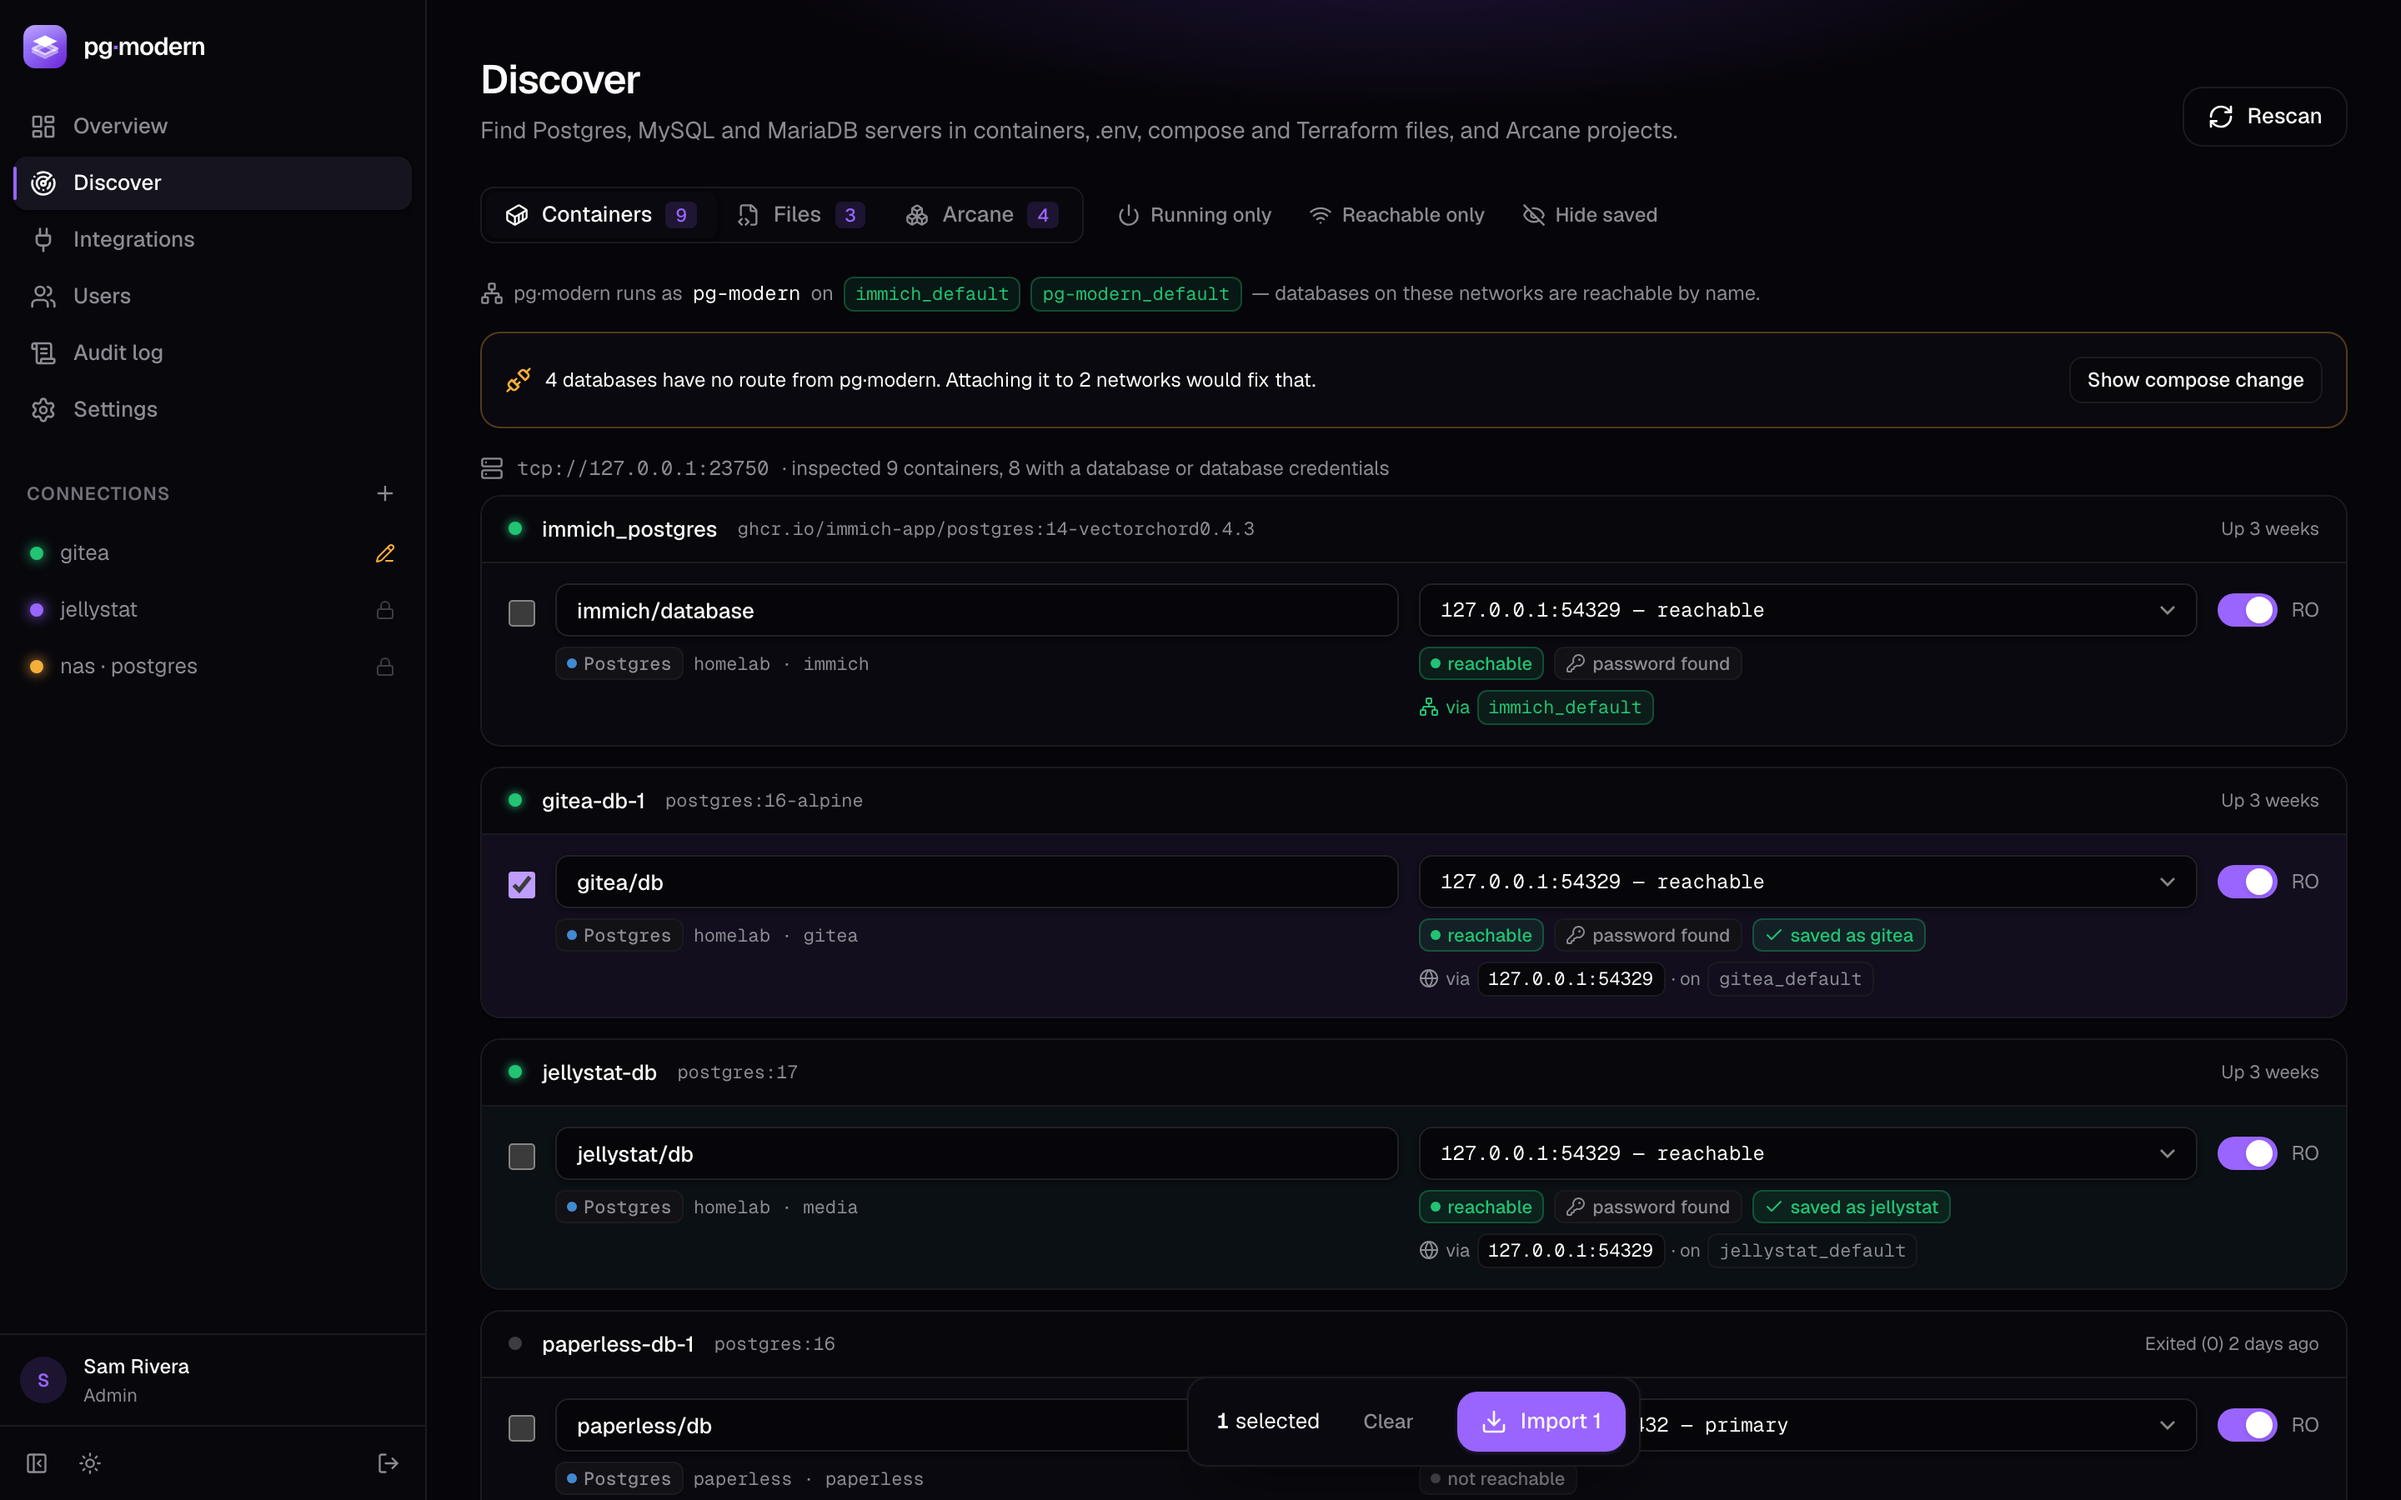
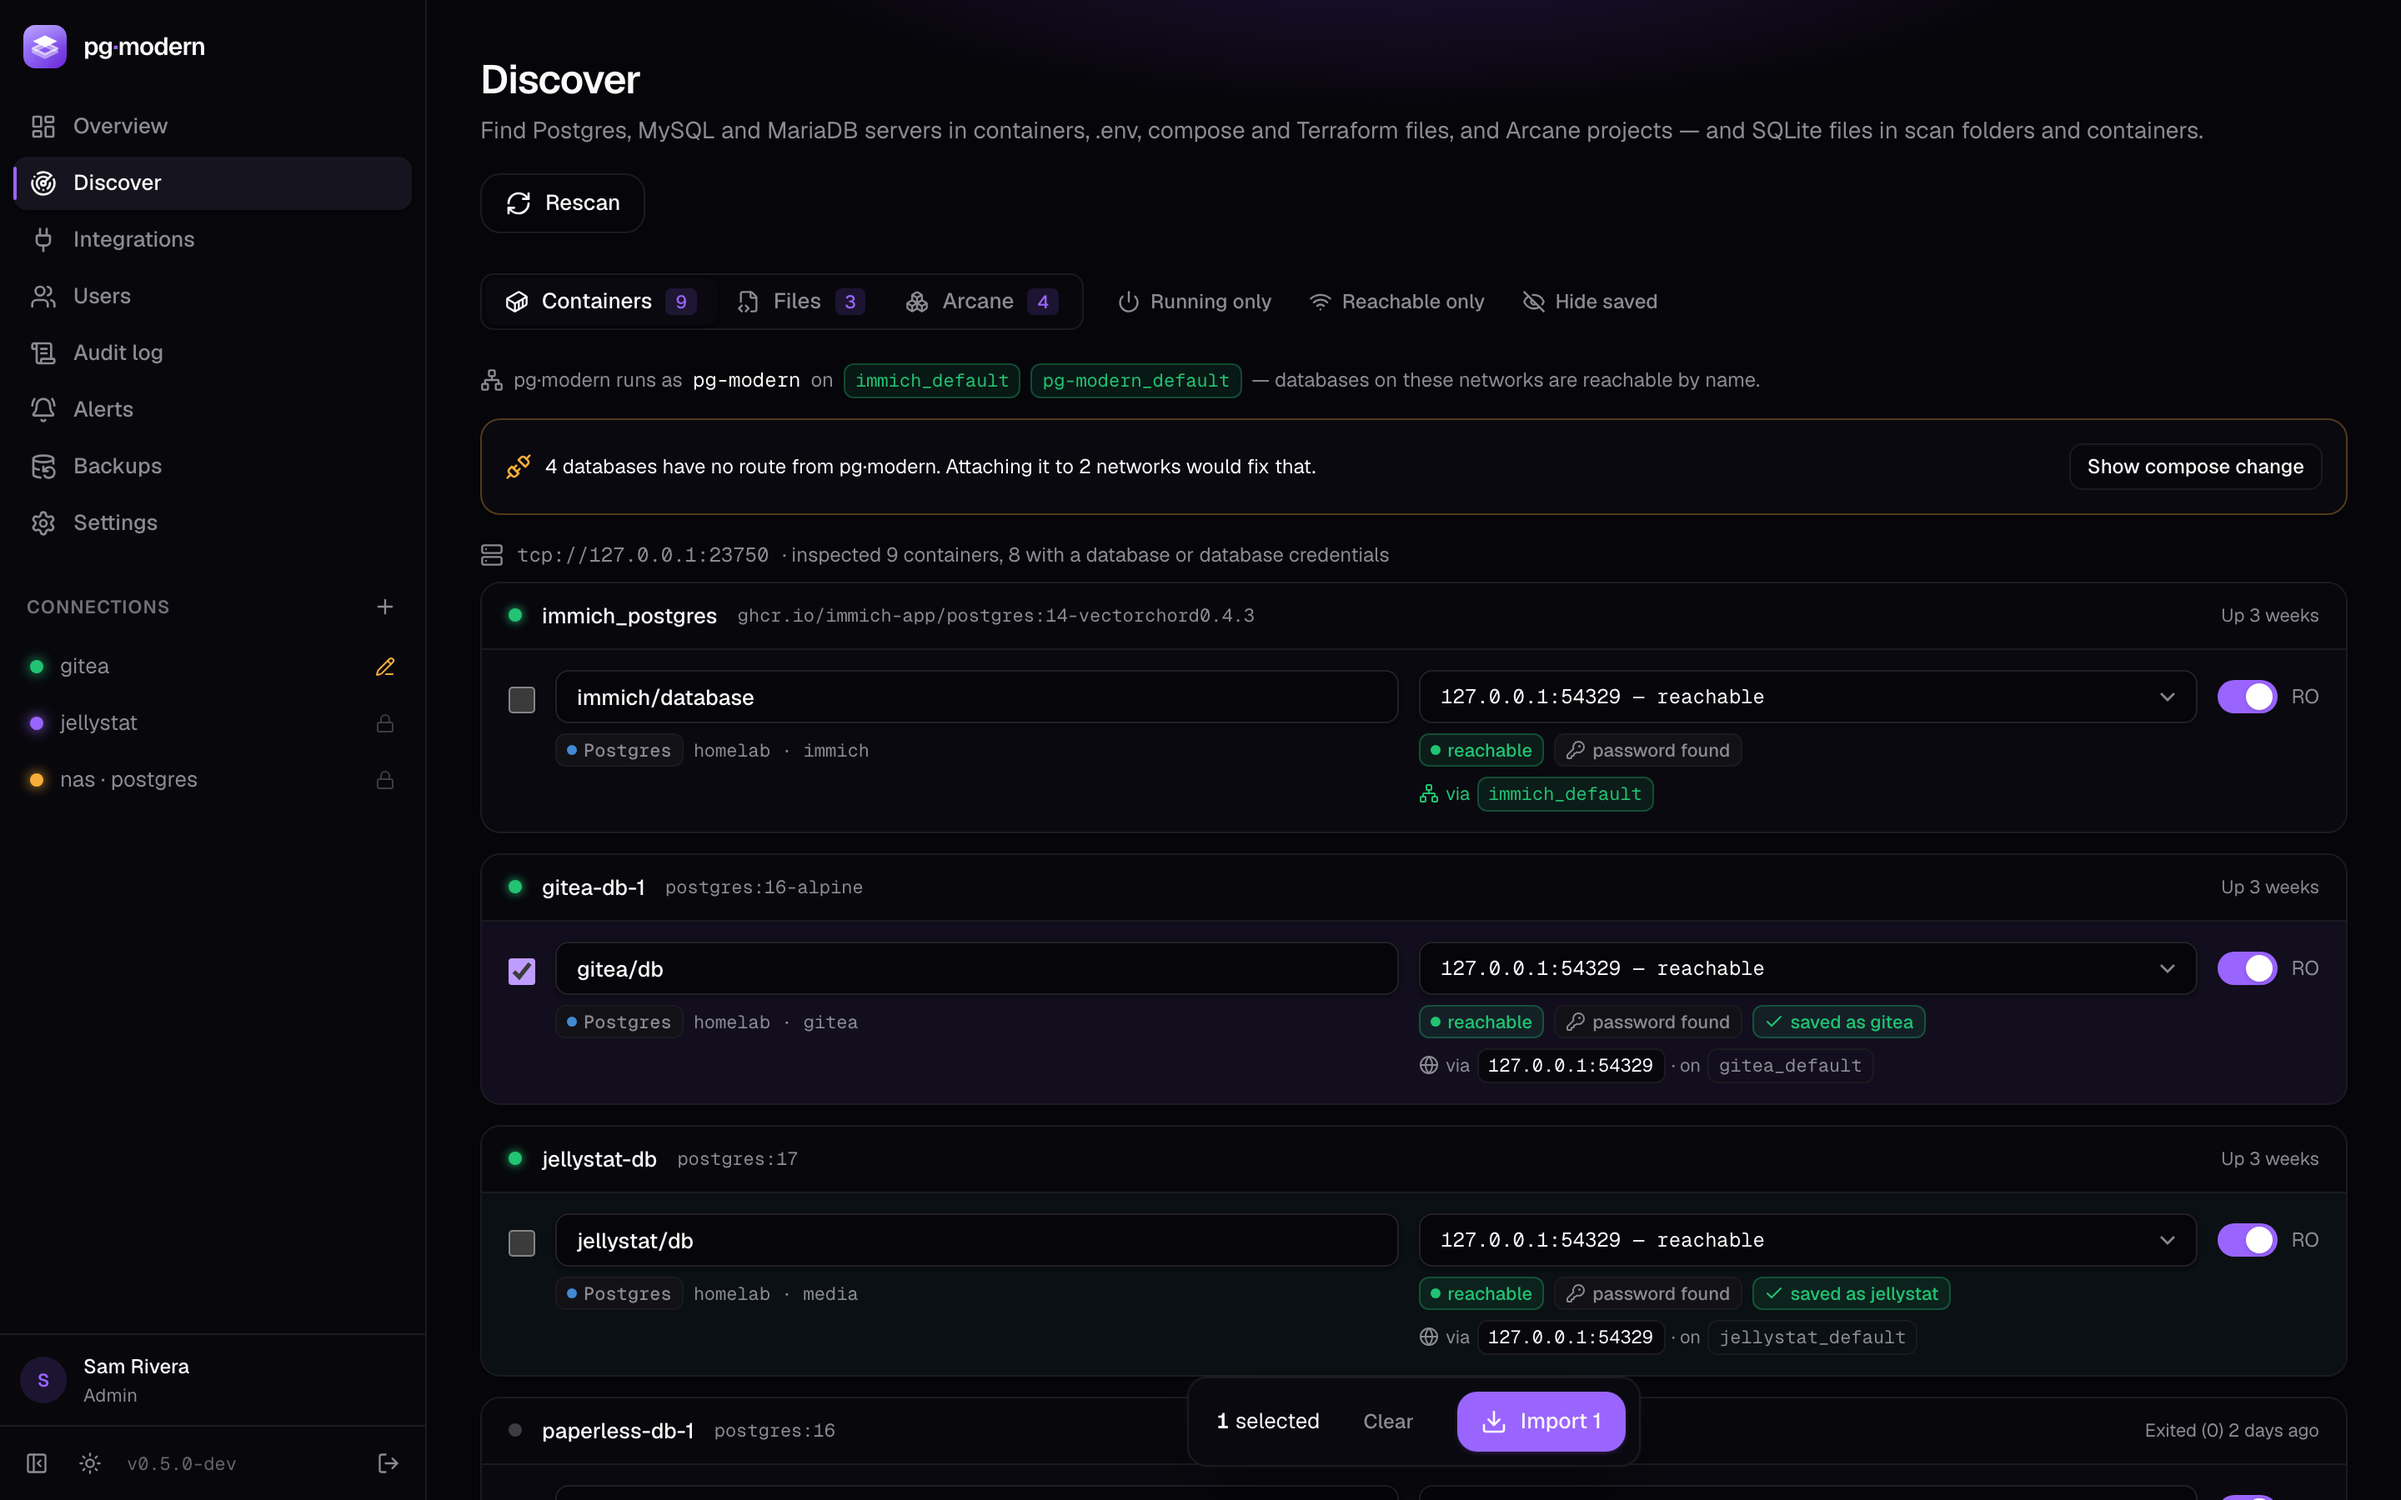
Show the release version in the sidebar and tag images with it
Main builds are versioned <major>.<minor>.<run number> from package.json
instead of a commit-sha tag; v* tags keep their semver tags.

Claude-Session: https://claude.ai/code/session_01VYYm8sXoCeympBHRdWuxtT

diff --git a/vite.config.ts b/vite.config.ts
@@ -1,9 +1,14 @@
 import adapter from '@sveltejs/adapter-node';
 import { sveltekit } from '@sveltejs/kit/vite';
 import tailwindcss from '@tailwindcss/vite';
+import { readFileSync } from 'node:fs';
 import { defineConfig } from 'vite';
 
+const pkg = JSON.parse(readFileSync(new URL('./package.json', import.meta.url), 'utf8')) as { version: string };
+
 export default defineConfig({
+	// The image build passes the release version (see Dockerfile); local builds say -dev.
+	define: { __APP_VERSION__: JSON.stringify(process.env.PGM_VERSION || `${pkg.version}-dev`) },
 	plugins: [
 		tailwindcss(),
 		sveltekit({

diff --git a/src/routes/+layout.svelte b/src/routes/+layout.svelte
@@ -224,6 +224,9 @@
 				>
 					{#if theme.value === 'dark'}<Sun />{:else}<Moon />{/if}
 				</button>
+				{#if !collapsed}
+					<span class="ml-1 truncate font-mono text-[11px] text-muted-foreground/70" title="pg·modern version">v{data.version}</span>
+				{/if}
 				{#if data.auth === 'authenticated'}
 					<button class="btn btn-ghost btn-icon btn-sm {collapsed ? '' : 'ml-auto'}" title="Sign out" onclick={logout}><LogOut /></button>
 				{/if}

diff --git a/src/app.d.ts b/src/app.d.ts
@@ -1,6 +1,8 @@
 // See https://svelte.dev/docs/kit/types#app.d.ts
 // for information about these interfaces
 declare global {
+	/** The release version, e.g. 0.5.42 (set at build time). */
+	const __APP_VERSION__: string;
 	namespace App {
 		interface Error {
 			message: string;

diff --git a/src/routes/+layout.server.ts b/src/routes/+layout.server.ts
@@ -19,6 +19,7 @@ export const load: LayoutServerLoad = ({ locals, url }) => {
 	const connections = visibleConnections(user);
 	return {
 		auth: locals.auth,
+		version: __APP_VERSION__,
 		viewer,
 		needsProfile: !!user?.needsProfile,
 		connections,
